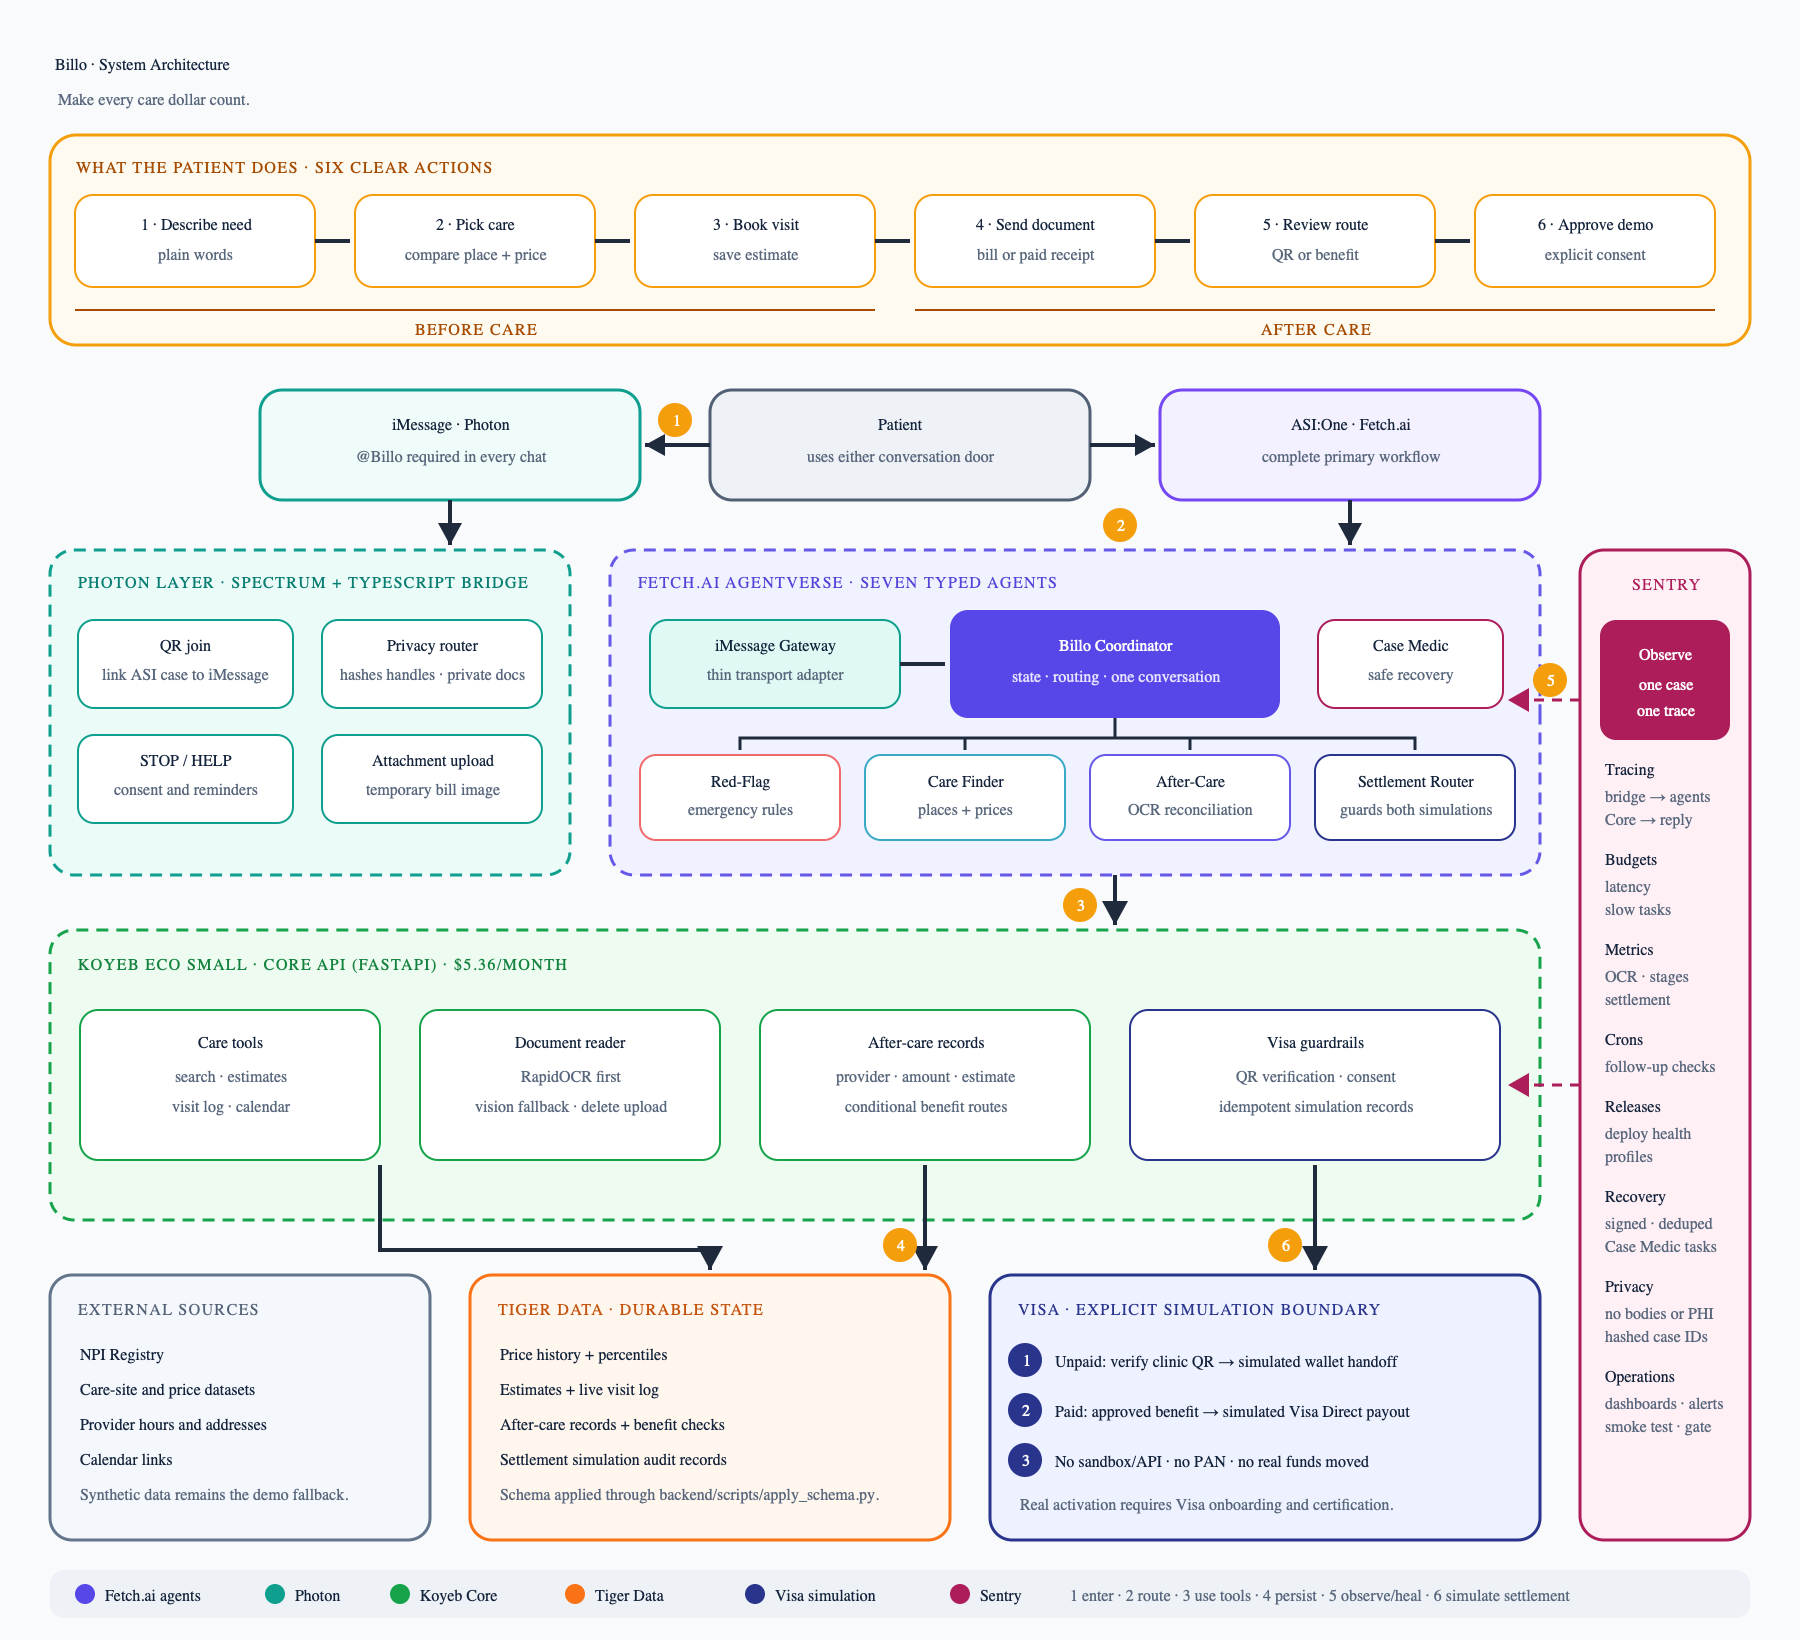
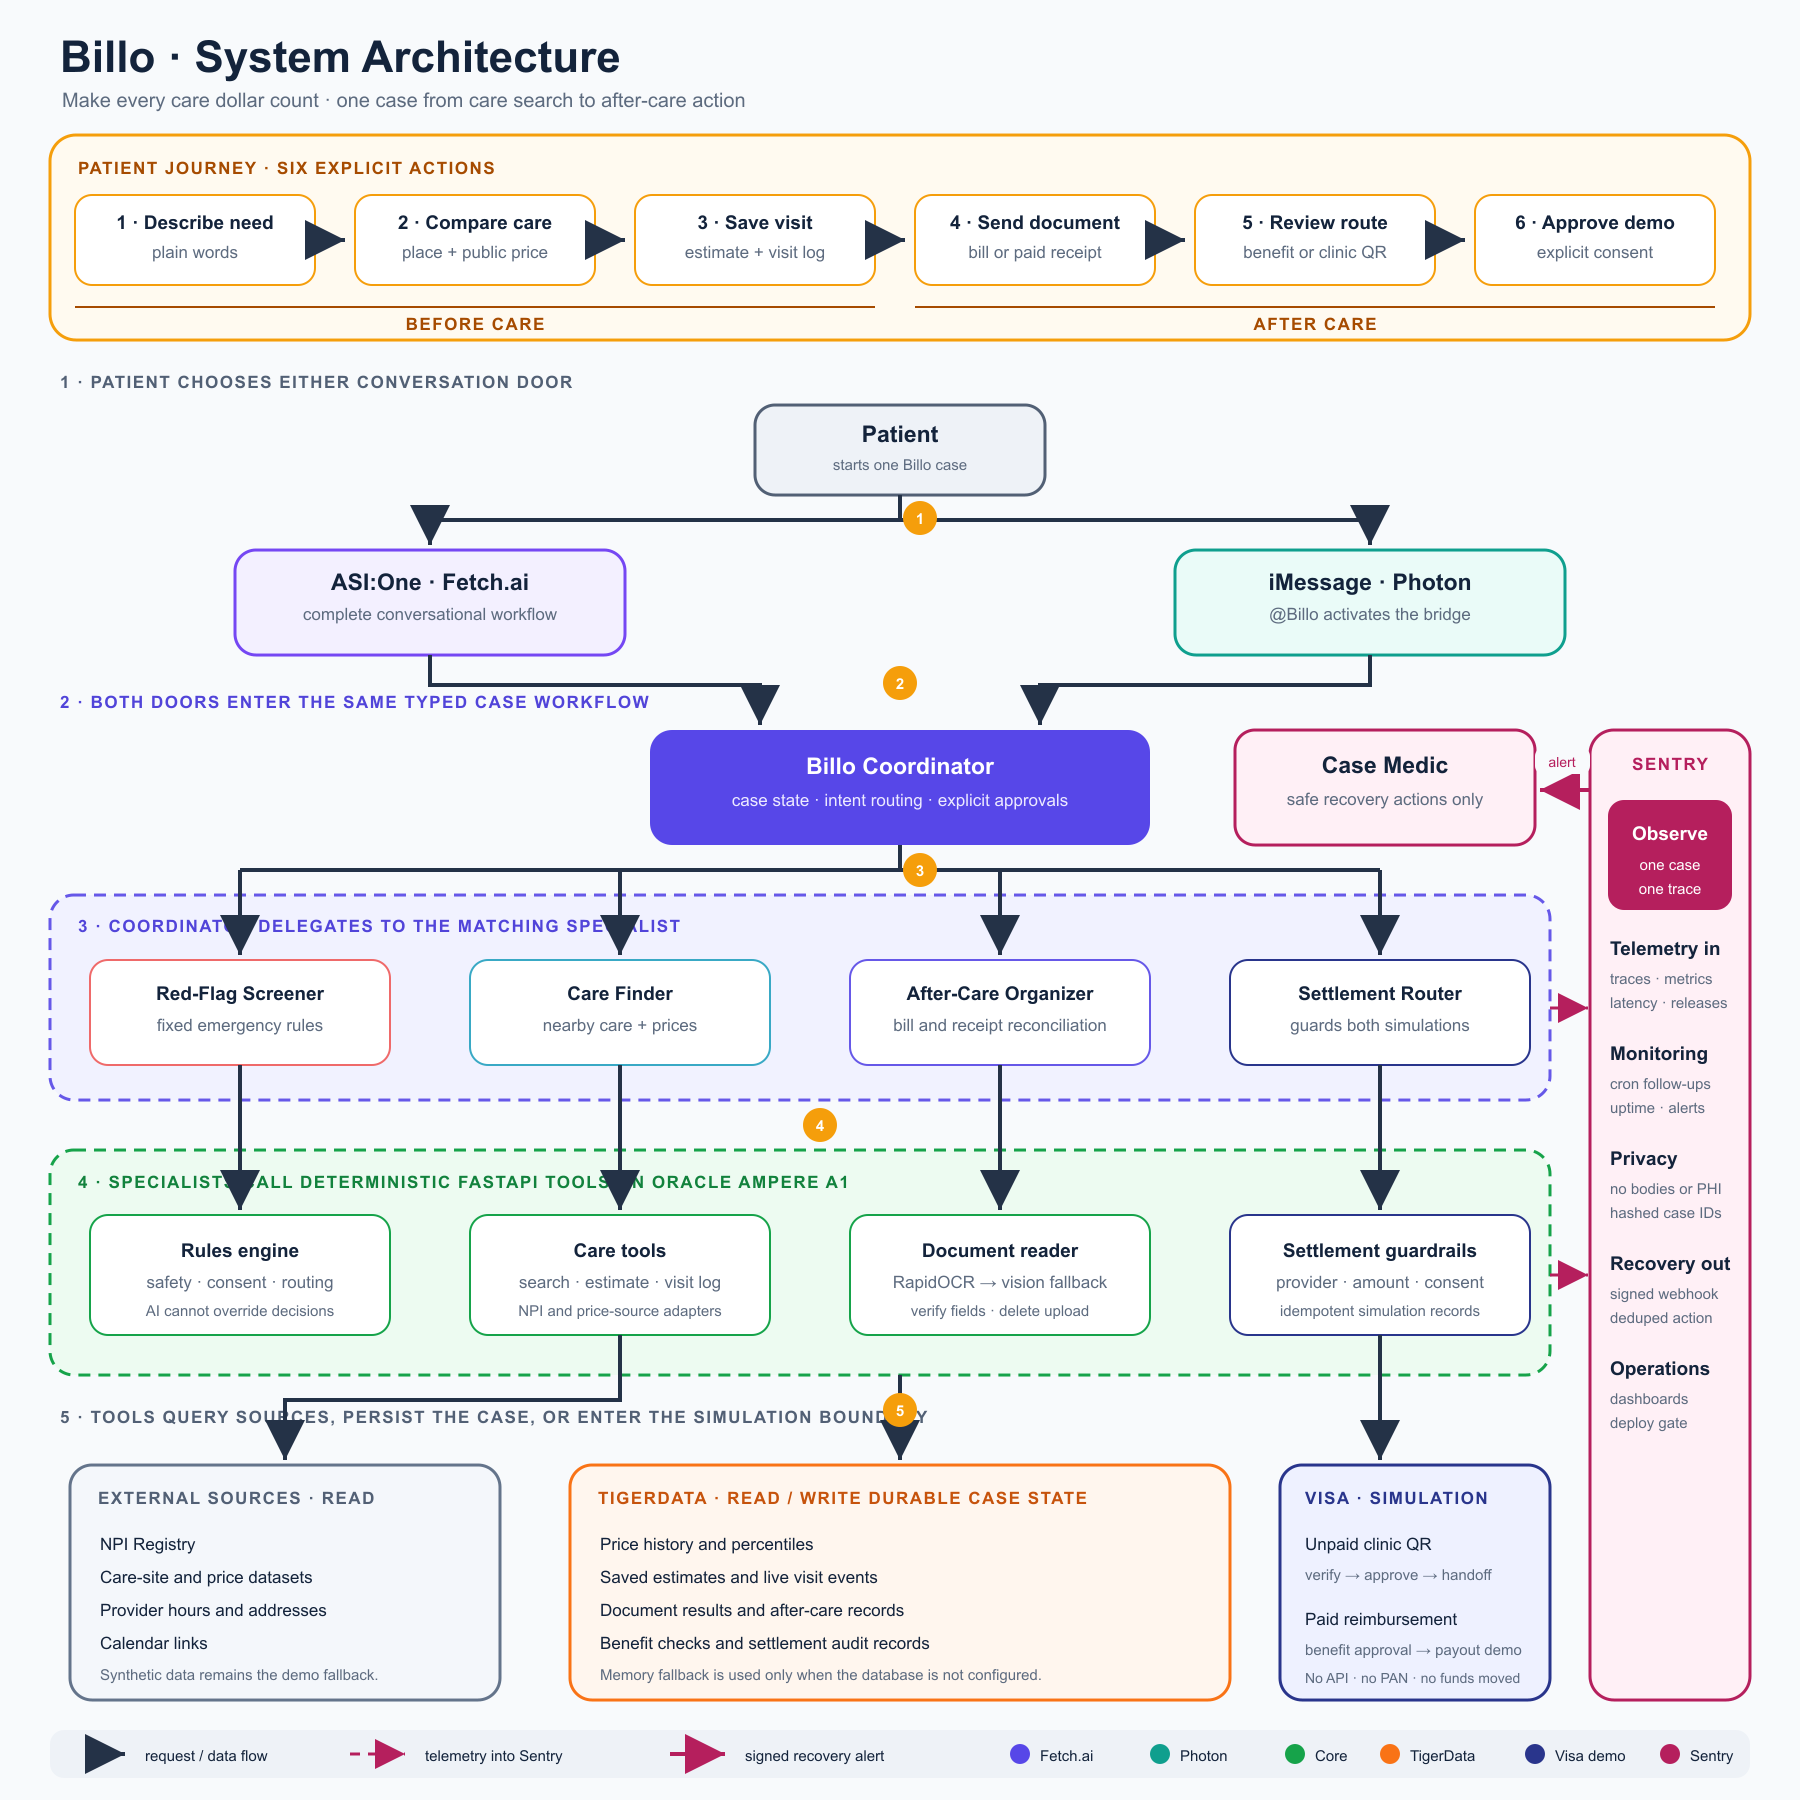
frontend update

Changed region(s): [[0.0311, 0.0, 0.9644, 0.9951], [0.84, 0.3421, 0.8711, 0.3732], [0.84, 0.2799, 0.8711, 0.311]]

diff --git a/README.md b/README.md
@@ -2,7 +2,9 @@
 
 [![CI](https://github.com/kacytran1122/-billo/actions/workflows/ci.yml/badge.svg)](https://github.com/kacytran1122/-billo/actions/workflows/ci.yml)
 
-![Billo system architecture](docs/architecture.png)
+[![Billo system architecture](docs/architecture.png)](docs/architecture.svg)
+
+The diagram is available as an editable SVG. Select the image to open it at full resolution.
 
 **Make every care dollar count.**
 
@@ -36,6 +38,20 @@ After the visit, the patient can upload a final bill or paid receipt. Local OCR 
 
 An unpaid clinic bill can enter a simulated Visa QR flow only after the clinic, invoice, currency, and exact amount match. A paid receipt can enter a simulated reimbursement flow only after an external benefit approval. Both paths require explicit patient approval and are visibly labeled as simulations.
 
+## End-to-end example
+
+One case stays connected across the entire experience instead of becoming a collection of unrelated searches and uploads.
+
+| Stage | Patient action | Billo action | Durable result |
+| --- | --- | --- | --- |
+| Safety | Describes symptoms in ASI:One or tags `@Billo` in iMessage | Applies fixed emergency rules before any shopping | Safety result and case identifier |
+| Search | Gives a need and location | Returns up to three care options with comparable prices | Selected provider and source metadata |
+| Estimate | Chooses an option | Saves the expected price and produces calendar links | Good Faith Estimate and visit record |
+| During care | Reports a service such as an X-ray | Adds the service to the running visit log | Updated expected total |
+| Document | Uploads a final bill or paid receipt | Extracts fields, verifies OCR, and matches provider, amount, and visit | Structured after-care record |
+| Route | Names a real benefit or scans a clinic QR | Selects the paid-benefit or unpaid-clinic path | Review with mismatches and required evidence |
+| Approval | Explicitly approves the demonstrated action | Rechecks every guard and writes an idempotent simulation record | Auditable outcome; no real money movement |
+
 ## Chat commands
 
 ```text
@@ -56,6 +72,8 @@ Billo stays quiet unless it is tagged, so ordinary conversation is never forward
 
 The diagram follows a request from ASI:One or iMessage into the coordinator, through the specialist Fetch.ai agents, and into shared FastAPI tools for rules, OCR, storage, and drafting. TigerData holds durable case state, Sentry observes the workflow without receiving raw health data, and the Visa boundary remains a clearly labeled simulation.
 
+Arrow direction is intentional: solid navy arrows carry requests or application data toward the next owner; dashed pink arrows carry scrubbed telemetry into Sentry; the solid pink arrow carries a signed recovery alert out of Sentry to Case Medic. Monitoring and recovery are shown separately so an alert can never be mistaken for a patient or payment request.
+
 ```text
 Patient
   ├─ ASI:One ───────────────┐
@@ -73,11 +91,70 @@ Patient
                   Sentry      Visa simulation
 ```
 
+### Agent responsibilities
+
+| Agent | Input | Responsibility | Output |
+| --- | --- | --- | --- |
+| Billo Coordinator | Patient message and current case | Maintains the conversation state and selects one specialist | Typed task or patient-facing response |
+| Red-Flag Screener | Symptoms and context | Applies non-LLM emergency rules first | Stop-and-seek-help result or cleared state |
+| Care Finder | Need, location, and payment context | Calls care and price tools and formats comparable choices | Sourced care options |
+| After-Care Organizer | Bill or receipt extraction | Reconciles provider, amount, line items, estimate, and visit log | Structured after-care record and mismatches |
+| Settlement Router | Verified record and explicit approval | Enforces provider, amount, status, consent, and idempotency | Simulated QR handoff or reimbursement result |
+| iMessage Gateway | Sanitized Photon event | Translates transport events into typed agent messages | Coordinator request or safe rejection |
+| Case Medic | Signed Sentry issue payload | Chooses one bounded recovery action and deduplicates delivery | Recovery record and operator notice |
+
+### Core API surface
+
+The agents share one FastAPI service instead of duplicating safety logic. Important routes include:
+
+| Route | Purpose |
+| --- | --- |
+| `GET /health` | Reports release, environment, Sentry state, and service readiness without exposing secrets |
+| `GET /care/search` | Returns normalized care options and prices |
+| `POST /estimates` | Saves the selected provider and expected amount |
+| `POST /visit-events` | Adds services to the live visit log |
+| `POST /reader/extract` | Runs OCR-first extraction with guarded vision fallback |
+| `POST /after-care/organize` | Reconciles a document against provider, visit, and estimate evidence |
+| `POST /benefits/check` | Returns conditional benefit paths from benefits the patient actually names |
+| `POST /visa/qr/inspect` | Validates simulated clinic QR fields before approval is possible |
+| `POST /visa/qr/approve` | Rechecks an unpaid-bill simulation and records explicit consent |
+| `POST /visa/reimbursement/payout` | Records an approved paid-receipt reimbursement simulation |
+| `POST /sentry/webhook` | Accepts signed Sentry alerts and dispatches deduplicated Case Medic work |
+
 ## Why the AI cannot bypass the rules
 
 The language model reads documents and phrases responses, but it does not decide whether an emergency flow stops, a bill matches, or a payment can continue. Those decisions live in deterministic code. A paid receipt cannot enter the clinic-payment branch, provider or amount mismatches block approval, repeated requests are idempotent, and silence never counts as consent.
 
 Sentry receives a keyed case hash rather than a patient identity. Request bodies, query strings, model inputs and outputs, SQL parameters, uploaded documents, phone numbers, emails, dates, card-like numbers, and amounts are scrubbed before telemetry leaves the application.
+
+The document pipeline also has a fixed trust order:
+
+1. Validate file size and media type.
+2. Run local RapidOCR.
+3. Use the configured vision model only when OCR confidence or line count is insufficient.
+4. Compare model fields against OCR evidence rather than trusting them directly.
+5. Normalize codes and amounts into the structured record.
+6. Delete the temporary upload after extraction.
+
+## Case state and persistence
+
+TigerData stores the minimum state needed to reconnect the workflow: hashed case identity, care options, saved estimate, visit events, extracted document fields, reconciliation status, benefit checks, and settlement-simulation audit records. Raw uploaded documents are not treated as durable case storage.
+
+When `DATABASE_URL` is absent, local development uses the in-memory fallback. Production readiness checks require the database so restarts do not erase a case. Link codes bind an ASI:One case to iMessage without putting a patient identifier in the QR payload.
+
+## Sentry observability and recovery
+
+One patient case maps to one distributed trace across Photon, the iMessage Gateway, the Coordinator, specialist agents, the Core API, and the reply. The implementation includes:
+
+- latency spans and performance budgets for care search, OCR, reconciliation, bridge delivery, and settlement;
+- metrics for case stages, OCR path, outcomes, and recovery actions;
+- Sentry Crons for scheduled visit follow-up checks;
+- release and environment diagnostics through `/health`;
+- a signed webhook with replay-safe delivery deduplication;
+- Case Medic recovery choices limited to known safe actions; and
+- privacy tests that inspect outbound Sentry envelopes rather than only configuration values.
+
+Expected user-facing guard failures remain normal application responses. They annotate the trace but do not create noisy operational incidents.
 
 ## Repository
 
@@ -110,6 +187,18 @@ make env
 
 Fill `.env` locally. Never commit API keys, agent seeds, database credentials, certificates, or private keys.
 
+Configuration is grouped by responsibility:
+
+| Group | Important variables |
+| --- | --- |
+| Runtime | `BILLO_MODE`, `CORE_URL`, `PUBLIC_BASE_URL`, `INTERNAL_TOKEN` |
+| Fetch.ai | `ASI_ONE_API_KEY`, permanent `SEED_*` values, derived `ADDR_*` values |
+| Documents | `VISION_API_KEY`, `VISION_MODEL`, `OCR_MIN_CONFIDENCE`, `OCR_MAX_IMAGE_BYTES` |
+| Persistence | `DATABASE_URL` |
+| Photon | `SPECTRUM_PROJECT_ID`, `SPECTRUM_PROJECT_SECRET`, `PHOTON_LINE_ADDRESS` |
+| Sentry | `SENTRY_DSN`, `SENTRY_ENVIRONMENT`, `SENTRY_RELEASE`, `CASE_HASH_KEY`, `SENTRY_WEBHOOK_SECRET` |
+| Simulation | `VISA_QR_MODE=simulate`, `VISA_DIRECT_MODE=simulate`, `NPI_MODE` |
+
 ```bash
 make test       # backend, OCR, safety, and integration tests
 make core       # Core API at http://localhost:8000/docs
@@ -127,6 +216,20 @@ npm run dev
 
 Then open [http://localhost:3000](http://localhost:3000).
 
+## Tests and verification
+
+The CI workflow validates the application on every push:
+
+| Suite | Coverage |
+| --- | --- |
+| Backend | API contracts, workflow guards, OCR, Sentry privacy, Oracle configuration, production readiness, and smoke-test behavior |
+| Frontend | Responsive layouts, dedicated journey routes, startup loader, live simulation, formatting, and safe handoff construction |
+| Photon | Tag activation, mention removal, ignored untagged messages, and group privacy routing |
+| Build | Next.js production compilation and Photon TypeScript checks |
+| Deployment | Core, Fetch.ai, and Photon Docker images built for Oracle's `linux/arm64` architecture |
+
+The current verified baseline is 69 backend tests, 27 frontend tests, 4 Photon routing tests, a successful Next.js production build, and three successful ARM64 container builds.
+
 ## Production
 
 The frontend is designed for Vercel. The long-running FastAPI, OCR, Fetch.ai, and Photon services deploy as ARM64 containers on an Oracle Ampere A1 VM behind Caddy.
@@ -138,6 +241,17 @@ python3 smoke-test.py https://api.heybillo.tech
 ```
 
 Keep `BILLO_MODE=demo` during the first deployment. After HTTPS, database, Sentry webhook, OCR, and end-to-end smoke checks pass, switch to `BILLO_MODE=live` and perform one final tagged iMessage test with a sanitized document.
+
+Recommended production sequence:
+
+1. Create an Oracle Ampere A1 VM and allow inbound ports 22, 80, and 443.
+2. Point `api.heybillo.tech` to the VM's public IP.
+3. Place secrets directly in the server environment; never paste them into issues or commits.
+4. Run `deploy/oracle/install.sh` to validate configuration, build containers, and start Caddy.
+5. Run the HTTPS smoke test against the public domain.
+6. Configure the signed Sentry webhook at `/sentry/webhook` and verify one recovery demo.
+7. Set the Vercel backend URL to `https://api.heybillo.tech` and redeploy the frontend.
+8. Switch to live mode only after a sanitized OCR test and a real tagged iMessage round trip pass.
 
 ## What is real and what is simulated
 
